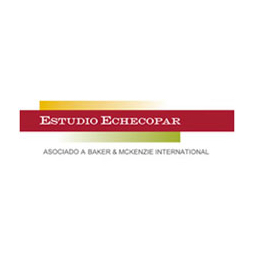
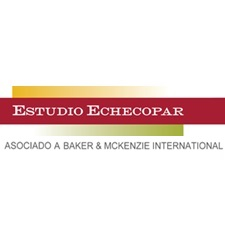
hipervinculo en el home

Changed region(s): [[0.0, 0.3733, 1.0, 0.6844]]

diff --git a/templates/default_site/includes.group/socios-estrategicos.html b/templates/default_site/includes.group/socios-estrategicos.html
@@ -13,7 +13,7 @@
           </div>
           <div class="row pv-56">
             <div class="col-md-2 col-xs-4">
-              <img class="img-responsive" src="{site_url}app/assets/img/echecopar.png">
+              <img class="img-responsive" src="{site_url}app/assets/img/echecopar.jpg">
             </div>
             <div class="col-md-2 col-xs-4">
               <img class="img-responsive" src="{site_url}app/assets/img/ey.png">

diff --git a/src/scss/EBM/_ebm-global.scss b/src/scss/EBM/_ebm-global.scss
@@ -377,3 +377,18 @@ input[type="checkbox"]{
 input[type="radio"]{
 	width: 14px;
 }
+
+input[name="submit"] {
+	border: 1px solid #ea6616;
+  color: #ea6616;
+  width: 94px;
+  border-radius: 3px;
+  margin-left: 40%;
+  margin-top: 21px;
+  display: block;
+}
+
+// label[for="freeform_acepto_la_declaracion"] {
+// 	width: 177px !important;
+// 	float: left !important;
+// }

diff --git a/app/assets/css/style.css b/app/assets/css/style.css
@@ -1312,4 +1312,14 @@ input[type="radio"] {
   width: 14px;
 }
 
+input[name="submit"] {
+  border: 1px solid #ea6616;
+  color: #ea6616;
+  width: 94px;
+  border-radius: 3px;
+  margin-left: 40%;
+  margin-top: 21px;
+  display: block;
+}
+
 /*# sourceMappingURL=style.css.map */
